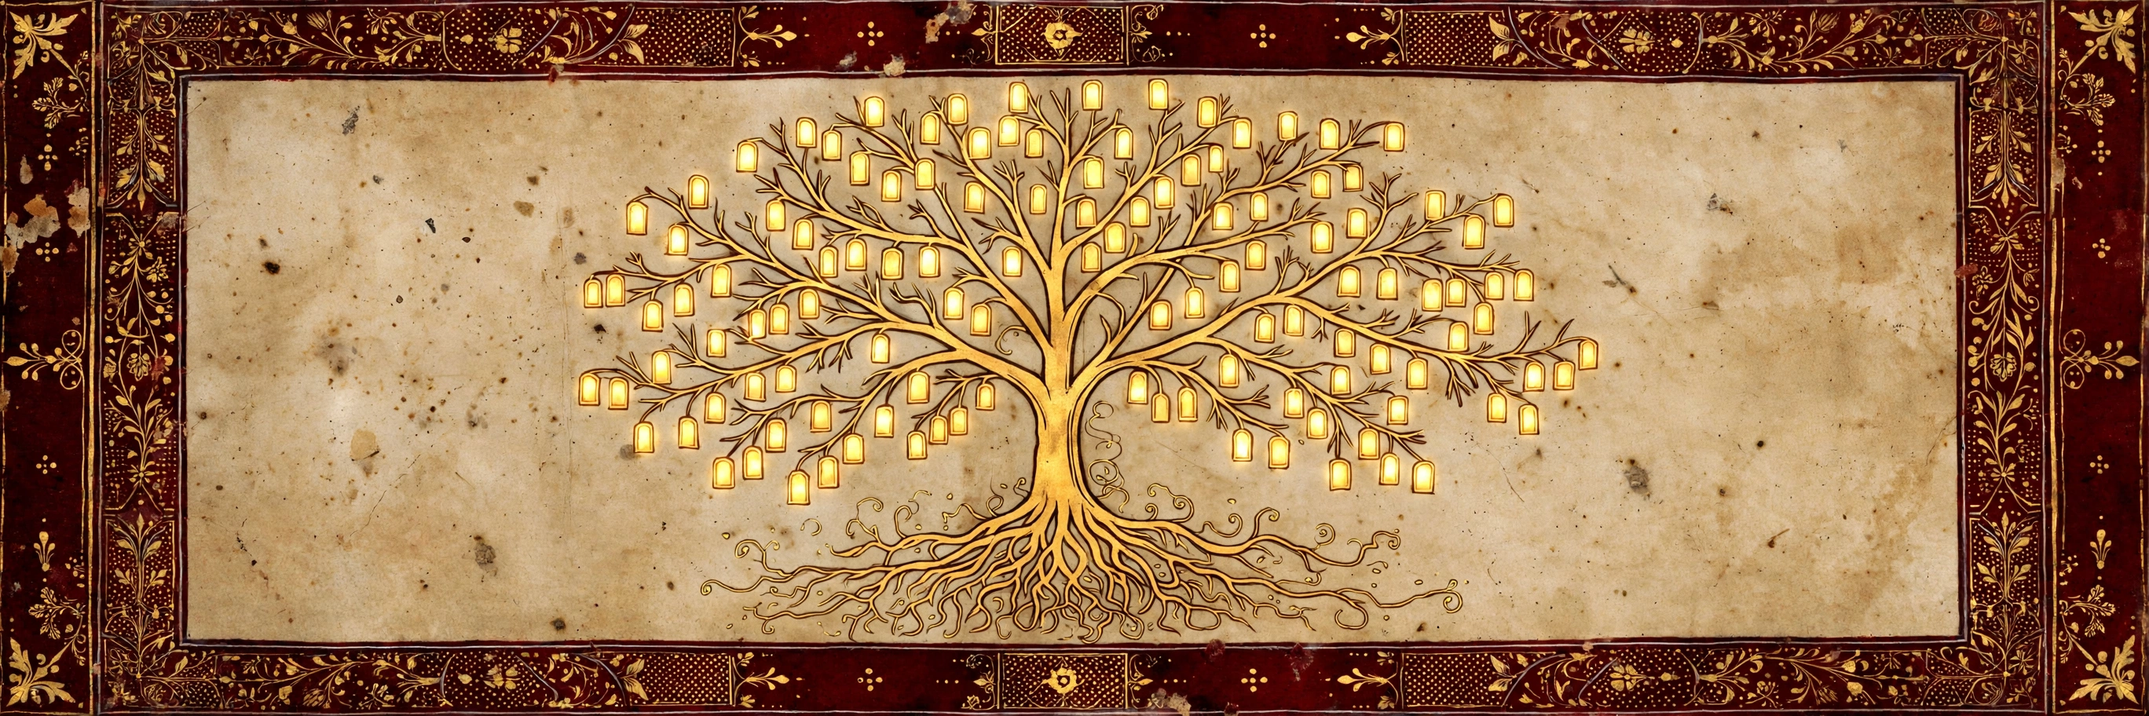
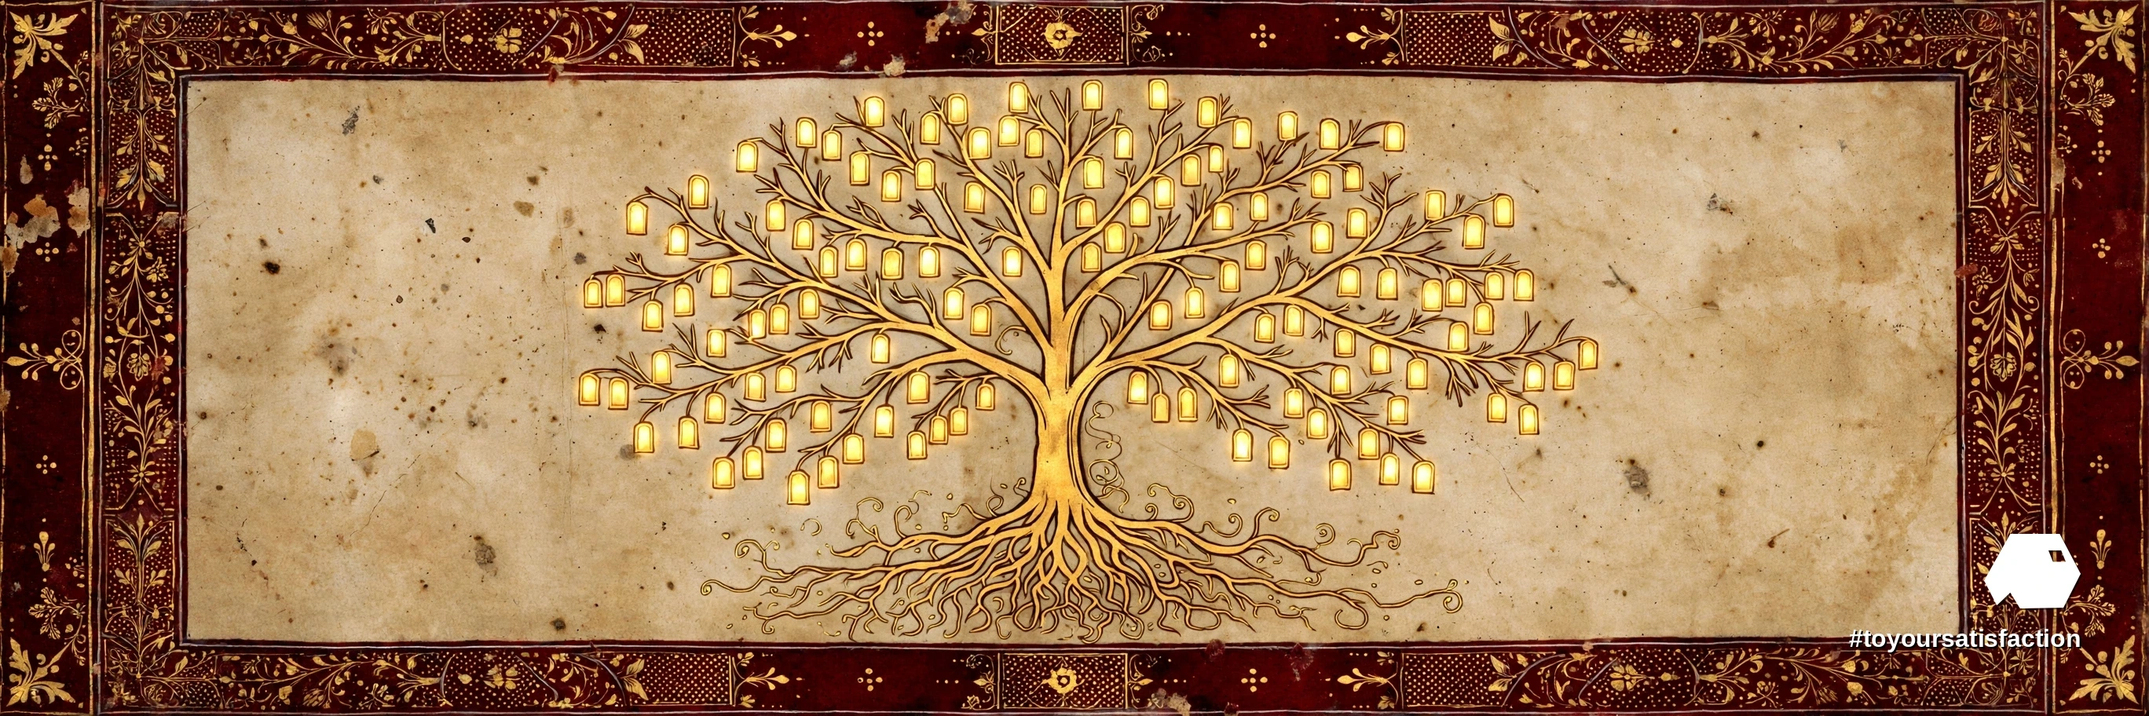
Magazine edition — batch 2

Changed region(s): [[0.8699, 0.7368, 0.9942, 0.9211]]

diff --git a/articles/one-ontology-many-models/index.html b/articles/one-ontology-many-models/index.html
@@ -13,34 +13,74 @@
 <meta property="og:image" content="https://oviainc.github.io/ai-services/articles/one-ontology-many-models/ovia-inc-one-ontology-many-models-hero.webp">
 <meta name="twitter:card" content="summary_large_image">
 <style>
-  :root{--bg:#0A0E14;--accent:#2E9BD6;--text:#FFFFFF;--muted:#B9C4CE;}
+  :root{--bg:#0A0E14;--panel:#101823;--text:#FFFFFF;--muted:#B9C4CE;--line:#22303E;--accent:#CE7A87;}
   *{box-sizing:border-box;margin:0;padding:0;}
-  body{background:var(--bg);color:var(--text);font-family:-apple-system,BlinkMacSystemFont,"Segoe UI",Roboto,Helvetica,Arial,sans-serif;line-height:1.65;}
-  main{max-width:760px;margin:0 auto;padding:32px 20px 48px;}
-  .langbar{display:flex;justify-content:flex-end;align-items:center;gap:10px;margin-bottom:18px;}
-  .langbar label{color:var(--muted);font-size:.85rem;letter-spacing:.08em;text-transform:uppercase;}
-  .langbar select{background:#101823;color:var(--text);border:1px solid #1E2A36;border-radius:8px;padding:6px 10px;font-size:.95rem;max-width:60vw;}
-  .kicker{color:var(--accent);font-size:.85rem;letter-spacing:.18em;text-transform:uppercase;margin-bottom:14px;}
-  h1{font-size:2rem;line-height:1.25;margin-bottom:20px;font-weight:700;}
-  h2{font-size:1.3rem;line-height:1.35;margin:28px 0 12px;font-weight:700;color:var(--accent);}
-  img.hero{width:100%;height:auto;border-radius:10px;display:block;margin-bottom:28px;}
-  p{margin-bottom:16px;color:var(--text);}
-  p.tags{color:var(--accent);font-size:.95rem;}
-  ul.refs{list-style:none;margin-bottom:16px;}
-  ul.refs li{margin-bottom:10px;color:var(--muted);font-size:.95rem;}
+  body{background:var(--bg);color:var(--text);font-family:Georgia,'Times New Roman',Times,serif;line-height:1.6;}
+  a{color:var(--accent);}
+  .sans{font-family:-apple-system,BlinkMacSystemFont,"Segoe UI",Roboto,Helvetica,Arial,sans-serif;}
+  /* masthead zone over the article background image */
+  .mastzone{position:relative;overflow:hidden;border-bottom:1px solid var(--line);}
+  .mast-bg{position:absolute;inset:0;background-size:cover;background-position:center;opacity:.22;}
+  .mast-shade{position:absolute;inset:0;background:linear-gradient(180deg,rgba(10,14,20,.52),rgba(10,14,20,.94));}
+  .mast-inner{position:relative;max-width:1180px;margin:0 auto;padding:24px 22px 42px;}
+  .masthead{display:flex;align-items:center;gap:16px;flex-wrap:wrap;}
+  .masthead a.logo{display:block;line-height:0;}
+  .masthead img.logo{height:46px;width:auto;display:block;}
+  .wordmark{font-family:-apple-system,BlinkMacSystemFont,"Segoe UI",Roboto,Helvetica,Arial,sans-serif;letter-spacing:.34em;font-size:13px;text-transform:uppercase;color:var(--text);}
+  .langbar{display:flex;align-items:center;gap:10px;margin-left:auto;}
+  .langbar label{color:var(--muted);font-size:.8rem;letter-spacing:.08em;text-transform:uppercase;font-family:-apple-system,BlinkMacSystemFont,"Segoe UI",Roboto,Helvetica,Arial,sans-serif;}
+  .langbar select{background:#101823;color:var(--text);border:1px solid var(--line);border-radius:8px;padding:6px 10px;font-size:.95rem;max-width:52vw;}
+  .kicker{color:var(--accent);font-size:.85rem;letter-spacing:.3em;text-transform:uppercase;margin:44px 0 16px;font-family:-apple-system,BlinkMacSystemFont,"Segoe UI",Roboto,Helvetica,Arial,sans-serif;}
+  h1.display{font-family:"Arial Narrow Bold","Franklin Gothic Medium",Impact,Haettenschweiler,"Helvetica Neue Condensed Bold",sans-serif;text-transform:uppercase;font-weight:700;font-size:clamp(2.5rem,6.4vw,4.7rem);line-height:.99;letter-spacing:.004em;max-width:1020px;}
+  .standfirst{font-size:clamp(1.12rem,2.3vw,1.42rem);font-style:italic;color:var(--muted);max-width:780px;line-height:1.5;margin-top:18px;}
+  .byline{font-family:-apple-system,BlinkMacSystemFont,"Segoe UI",Roboto,Helvetica,Arial,sans-serif;font-size:.74rem;letter-spacing:.2em;text-transform:uppercase;color:var(--muted);border-top:1px solid var(--line);margin-top:24px;padding-top:14px;}
+  /* hero */
+  .hero-zone{max-width:1180px;margin:34px auto 0;padding:0 22px;}
+  figure.hero img{width:100%;height:auto;display:block;border-radius:2px;}
+  figcaption{font-family:-apple-system,BlinkMacSystemFont,"Segoe UI",Roboto,Helvetica,Arial,sans-serif;font-size:.78rem;color:var(--muted);padding-top:8px;letter-spacing:.03em;}
+  /* body columns */
+  main{max-width:1180px;margin:0 auto;padding:6px 22px 30px;}
+  .cols{margin-top:30px;font-size:1.16rem;line-height:1.75;}
+  @media (min-width:1020px){.cols{column-count:2;column-gap:54px;}}
+  .cols p{margin:0 0 20px;}
+  .cols p.first::first-letter{font-family:"Arial Narrow Bold","Franklin Gothic Medium",Impact,sans-serif;font-size:5.4rem;line-height:.78;float:left;padding:.55rem .9rem 0 0;color:var(--accent);font-weight:700;}
+  h2.sec{font-family:-apple-system,BlinkMacSystemFont,"Segoe UI",Roboto,Helvetica,Arial,sans-serif;font-size:.88rem;letter-spacing:.26em;text-transform:uppercase;color:var(--accent);margin:36px 0 14px;border-top:2px solid var(--accent);padding-top:14px;break-after:avoid;}
+  h2.sec:first-child{margin-top:0;}
+  blockquote.pull{column-span:all;font-size:clamp(1.55rem,3.6vw,2.35rem);line-height:1.3;font-style:italic;text-align:center;color:var(--accent);margin:42px 0;padding:4px 12px;}
+  figure.body{margin:4px 0 22px;break-inside:avoid;}
+  figure.wide{column-span:all;margin:30px 0 34px;}
+  figure.body img,figure.wide img{width:100%;height:auto;display:block;border-radius:2px;}
+  .keybox{break-inside:avoid;background:var(--panel);border:1px solid var(--line);border-top:3px solid var(--accent);padding:18px 20px 10px;margin:0 0 24px;font-family:-apple-system,BlinkMacSystemFont,"Segoe UI",Roboto,Helvetica,Arial,sans-serif;}
+  .keybox h3{font-size:.78rem;letter-spacing:.24em;text-transform:uppercase;color:var(--accent);margin-bottom:10px;}
+  .keybox li{margin:0 0 9px 18px;font-size:.95rem;line-height:1.5;}
+  /* references + tags + footer */
+  .refs-sec{margin-top:44px;border-top:1px solid var(--line);padding-top:24px;}
+  .refs-sec h2{font-family:-apple-system,BlinkMacSystemFont,"Segoe UI",Roboto,Helvetica,Arial,sans-serif;font-size:.88rem;letter-spacing:.26em;text-transform:uppercase;color:var(--accent);margin-bottom:14px;}
+  ul.refs{list-style:none;}
+  ul.refs li{margin-bottom:10px;color:var(--muted);font-size:.95rem;font-family:-apple-system,BlinkMacSystemFont,"Segoe UI",Roboto,Helvetica,Arial,sans-serif;}
   ul.refs a{color:var(--accent);text-decoration:none;word-break:break-all;}
   ul.refs a:hover{text-decoration:underline;}
-  footer{border-top:1px solid #1E2A36;margin-top:36px;padding-top:20px;font-size:.95rem;color:var(--muted);}
+  p.tags{color:var(--accent);font-size:.95rem;margin-top:26px;font-family:-apple-system,BlinkMacSystemFont,"Segoe UI",Roboto,Helvetica,Arial,sans-serif;}
+  footer{border-top:1px solid var(--line);margin-top:38px;padding:22px 0 10px;font-size:.95rem;color:var(--muted);font-family:-apple-system,BlinkMacSystemFont,"Segoe UI",Roboto,Helvetica,Arial,sans-serif;}
+  footer .frow{display:flex;align-items:center;gap:14px;flex-wrap:wrap;}
+  footer img.flogo{height:30px;width:auto;display:block;}
   footer a{color:var(--accent);text-decoration:none;}
   footer a:hover{text-decoration:underline;}
-  @media (max-width:600px){h1{font-size:1.55rem;}main{padding:22px 16px 36px;}}
+  footer .ftag{color:var(--text);letter-spacing:.06em;}
+  @media (max-width:640px){.mast-inner{padding:18px 16px 30px;}main,.hero-zone{padding-left:16px;padding-right:16px;}h1.display{font-size:2.35rem;}.cols{font-size:1.08rem;}}
 </style>
 </head>
 <body>
-<main>
-<div class="langbar">
-          <label for="langPick" data-tr>Language</label>
-          <select id="langPick" aria-label="Choose your language">
+<header class="mastzone">
+  <div class="mast-bg" style="background-image:url('ovia-inc-one-ontology-many-models-background.webp')"></div>
+  <div class="mast-shade"></div>
+  <div class="mast-inner">
+    <div class="masthead">
+      <a class="logo" href="../../" aria-label="Ovia Inc — home"><img class="logo" src="../../assets/ovia-inc-logo-white.webp" alt="Ovia Inc — logo"></a>
+      <span class="wordmark">Ovia Inc — Magazine</span>
+      <div class="langbar">
+        <label for="langPick" data-tr>Language</label>
+        <select id="langPick" aria-label="Choose your language">
             <option value="en">English</option>
             <option value="fr">Français</option>
             <option value="es">Español</option>
@@ -118,29 +158,62 @@
             <option value="lo">ລາວ</option>
             <option value="mn">Монгол</option>
           </select>
-        </div>
-  <p class="kicker" data-tr>Ovia Inc — Articles</p>
-  <h1 data-tr>One Vocabulary, Every Model: Governing Meaning Across the Semantic Estate</h1>
-  <img class="hero" src="ovia-inc-one-ontology-many-models-hero.webp" alt="Ovia Inc — An illuminated-manuscript golden tree on aged parchment inside a burgundy and gold border, its branches carrying many small glowing tablets as leaves">
-  <h2 data-tr>The fragmentation problem</h2>
-  <p data-tr>Every growing data estate develops the same quiet disease. Finance models revenue one way; the sales dashboard models revenue another; a third definition lives inside the board pack, reconciled by hand each quarter. Each semantic model is internally consistent, and the company still argues about the numbers — because the argument was never about arithmetic. Meaning drifts wherever models multiply without a shared vocabulary above them, and the drift stays invisible until two certified answers disagree in the same meeting. Agents inherit the disease at machine speed: an agent reasoning across models that define the same word differently will produce fluent, confident, contradictory work.</p>
-  <h2 data-tr>One ontology, many models</h2>
-  <p data-tr>The architectural answer emerging in the Datus and Dosi October work is a separation of concerns. Ontology Mapping, split into the Apache Ossie standard, divides the world into three documents — the ontology, the semantic model, and the mapping between them — so that one ontology can span many semantic models. The vocabulary of the business (customer, order, account, and the relationships among them) lives once, governed once, and each underlying model declares how local fields and tables express those shared concepts. Models keep their local structure; meaning stops being local. New models join the estate by writing a mapping, not by renegotiating the language.</p>
-  <h2 data-tr>Governance is a versioning problem</h2>
-  <p data-tr>Treating vocabulary as a governed artefact changes the daily work of data leadership. A definition change becomes a versioned event — proposed, reviewed, released — rather than an edit inside one team's file. Derived concepts, such as the rule that makes a customer a Premier Customer, carry versions of their own, so historical reports can be read against the rule that was in force when the numbers were produced. Disputes move up a level, from whose SQL is right to what the business means — a shorter, more honest argument, held once, in the open, with the decision recorded where every model can inherit the answer.</p>
-  <h2 data-tr>What agents inherit</h2>
-  <p data-tr>Agents raise the stakes on all of this, because agents consume meaning literally and at scale. An ontology spanning the estate gives an agent a bounded business world to reason in: concepts that resolve consistently across models, relationships that can be traversed safely, rules that execute the same way in every tool. The OntologyAnalyst pattern — a specialised subagent working the concepts and mappings directly — shows the consumption model forming already. Context engineering, as practised at Ovia since December 2022, treats that vocabulary as core context: the shared language is not documentation about the system; the shared language is part of the system.</p>
-  <h2 data-tr>What to watch</h2>
-  <p data-tr>Watch whether the three-document split — ontology, model, mapping — becomes the standard shape other engines adopt, whether mapping maintenance proves cheaper than definition drift (the bet the architecture makes), and whether governance ceremonies stay light enough that teams actually hold them. The estates that win the agent era will not be the ones with the most models. The winners will be the estates where every model, dashboard and agent means the same thing by the same words — and can prove the lineage of that meaning on demand.</p>
-  <p data-tr>The cost side deserves honesty as well. A governed vocabulary is not free: mappings must be written, changes reviewed, and someone must own the language with authority to settle disputes. The architecture's bet is that this visible, bounded cost replaces an invisible, unbounded one — the reconciliation meetings, the duplicated definitions, the agent errors traced back to two models meaning different things by the same word. Estates already pay for meaning; the ontology simply moves the payment onto the books, where leadership can see the line and judge the return.</p>
-  <h2 data-tr>References</h2>
-  <ul class="refs">
-    <li><span data-tr>Harrison Zhao (Datus) — “Datus October Update: Teaching the Semantic Layer the Business”, Medium, October 31, 2026:</span> <a href="https://medium.com/@linux.hust/datus-october-update-teaching-the-semantic-layer-the-business-datus-blog-7f5401c6abca">https://medium.com/@linux.hust/datus-october-update-teaching-the-semantic-layer-the-business-datus-blog-7f5401c6abca</a></li>
-    <li><span data-tr>Datus — “From Semantic Layer to Ontology: Architecture for AI Agents”, Datus blog:</span> <a href="https://datus.ai/blog/from-semantic-layer-to-ontology/">https://datus.ai/blog/from-semantic-layer-to-ontology/</a></li>
-  </ul>
+      </div>
+    </div>
+    <p class="kicker" data-tr>Ovia Inc — Context Engineering · Data Governance</p>
+    <h1 class="display" data-tr>One Vocabulary, Every Model: Governing Meaning Across the Semantic Estate</h1>
+    <p class="standfirst" data-tr>Meaning drifts wherever models multiply without a shared vocabulary above them; one governed ontology, mapped onto many models, settles the argument once.</p>
+    <p class="byline" data-tr>Ovia Inc · Studio and Lab · 6 min read</p>
+  </div>
+</header>
+<div class="hero-zone">
+  <figure class="hero">
+    <img src="ovia-inc-one-ontology-many-models-hero.webp" alt="Ovia Inc — An illuminated-manuscript golden tree on aged parchment inside a burgundy and gold border, its branches carrying many small glowing tablets as leaves">
+    <figcaption data-tr>A golden tree on parchment, branches carrying glowing tablets. Image: Ovia Inc</figcaption>
+  </figure>
+</div>
+<main>
+  <div class="cols">
+<p class="first" data-tr>Every growing data estate develops the same quiet disease, and the disease rarely announces itself as a data problem. Finance models revenue one way, the sales dashboard models revenue another way, and a third definition survives inside the board pack.</p>
+<p data-tr>Each model can pass every local test and the company can still argue about the numbers in the same meeting. The argument was never mainly about arithmetic. Meaning drifts wherever models multiply without a shared vocabulary above them, and the drift stays invisible until two certified answers disagree in public.</p>
+<p data-tr>The ontology direction in the Datus and Dosi October work points the other way. One governed vocabulary, mapped onto many models and versioned like code, gives teams a place to settle meaning once and let every dashboard, model and agent inherit the answer.</p>
+<aside class="keybox"><h3 data-tr>Key points</h3><ul><li data-tr>Meaning drifts when every team and tool keeps a local definition of the same business word.</li><li data-tr>Ontology Mapping split into the Apache Ossie standard separates the ontology, the semantic model and the mapping between them.</li><li data-tr>A definition change becomes a versioned event, proposed, reviewed and released, rather than a quiet edit in one file.</li><li data-tr>Agents consume meaning literally and at scale, so a shared vocabulary becomes part of the system rather than documentation about the system.</li></ul></aside>
+<h2 class="sec" data-tr>01 · The fragmentation problem</h2>
+<p data-tr>Every growing data estate develops the same quiet disease. Finance models revenue one way; the sales dashboard models revenue another; a third definition lives inside the board pack, reconciled by hand each quarter. Each semantic model is internally consistent, and the company still argues about the numbers — because the argument was never about arithmetic. Meaning drifts wherever models multiply without a shared vocabulary above them, and the drift stays invisible until two certified answers disagree in the same meeting. Agents inherit the disease at machine speed: an agent reasoning across models that define the same word differently will produce fluent, confident, contradictory work.</p>
+<p data-tr>The cost of that drift is easy to underestimate because the cost arrives as ordinary friction. A meeting spends its first half reconciling totals instead of deciding anything. An analyst maintains a private translation between two dashboards. A careful answer carries a footnote explaining which revenue was meant. None of those moments looks like a system failure, yet together those moments tax every decision the estate was built to support.</p>
+<h2 class="sec" data-tr>02 · One ontology, many models</h2>
+<p data-tr>The architectural answer emerging in the Datus and Dosi October work is a separation of concerns. Ontology Mapping, split into the Apache Ossie standard, divides the world into three documents — the ontology, the semantic model, and the mapping between them — so that one ontology can span many semantic models. The vocabulary of the business (customer, order, account, and the relationships among them) lives once, governed once, and each underlying model declares how local fields and tables express those shared concepts. Models keep their local structure; meaning stops being local. New models join the estate by writing a mapping, not by renegotiating the language.</p>
+<p data-tr>The three-document split also clarifies ownership. The ontology holds the language leadership agrees to govern. A semantic model holds a local structure built for a platform, a team or a workload. The mapping holds the honest translation between the two, where compromises and gaps can be seen rather than hidden inside a query. When a local model changes shape, the mapping absorbs the change. When the business changes meaning, the ontology records the change where every mapping can respond.</p>
+<blockquote class="pull" data-tr>The shared language is not documentation about the system; the shared language is part of the system.</blockquote>
+<figure class="body"><img src="ovia-inc-one-ontology-many-models-body-1.webp" alt="Ovia Inc — A golden illuminated tree on parchment spreading into many panels inside a burgundy and gold border"><figcaption data-tr>One golden tree, many panels, inside a burgundy and gold border. Image: Ovia Inc</figcaption></figure>
+<h2 class="sec" data-tr>03 · Governance is a versioning problem</h2>
+<p data-tr>Treating vocabulary as a governed artefact changes the daily work of data leadership. A definition change becomes a versioned event — proposed, reviewed, released — rather than an edit inside one team's file. Derived concepts, such as the rule that makes a customer a Premier Customer, carry versions of their own, so historical reports can be read against the rule that was in force when the numbers were produced. Disputes move up a level, from whose SQL is right to what the business means — a shorter, more honest argument, held once, in the open, with the decision recorded where every model can inherit the answer.</p>
+<p data-tr>Good governance here stays deliberately light. A proposed change needs a reason, a reviewer with authority over the concept, and a record that downstream owners can find. Heavy ceremony would push teams back toward private definitions, defeating the purpose. Light, visible versioning does the opposite: changing the shared language becomes normal, auditable work, and keeping a private dialect becomes the option that needs explaining.</p>
+<h2 class="sec" data-tr>04 · What agents inherit</h2>
+<p data-tr>Agents raise the stakes on all of this, because agents consume meaning literally and at scale. An ontology spanning the estate gives an agent a bounded business world to reason in: concepts that resolve consistently across models, relationships that can be traversed safely, rules that execute the same way in every tool. The OntologyAnalyst pattern — a specialised subagent working the concepts and mappings directly — shows the consumption model forming already. Context engineering, as practised at Ovia since December 2022, treats that vocabulary as core context: the shared language is not documentation about the system; the shared language is part of the system.</p>
+<figure class="wide"><img src="ovia-inc-one-ontology-many-models-body-2.webp" alt="Ovia Inc — Three parchment scrolls on burgundy cloth joined by gold threads into one central gold seal"><figcaption data-tr>Three parchments on burgundy cloth, gold threads meeting at one seal. Image: Ovia Inc</figcaption></figure>
+<p data-tr>Bounded worlds matter for safety as much as for accuracy. An agent that can traverse named relationships inside a governed vocabulary has a clearer edge to stop at than an agent improvising joins across raw tables. Permissions, review and audit all become easier to reason about when the concepts an agent used are the same concepts a person can inspect. The vocabulary does not make an agent wise, but a governed vocabulary makes agent work legible.</p>
+<h2 class="sec" data-tr>05 · What to watch</h2>
+<p data-tr>Watch whether the three-document split — ontology, model, mapping — becomes the standard shape other engines adopt, whether mapping maintenance proves cheaper than definition drift (the bet the architecture makes), and whether governance ceremonies stay light enough that teams actually hold them. The estates that win the agent era will not be the ones with the most models. The winners will be the estates where every model, dashboard and agent means the same thing by the same words — and can prove the lineage of that meaning on demand.</p>
+<p data-tr>The cost side deserves honesty as well. A governed vocabulary is not free: mappings must be written, changes reviewed, and someone must own the language with authority to settle disputes. The architecture's bet is that this visible, bounded cost replaces an invisible, unbounded one — the reconciliation meetings, the duplicated definitions, the agent errors traced back to two models meaning different things by the same word. Estates already pay for meaning; the ontology simply moves the payment onto the books, where leadership can see the line and judge the return.</p>
+<p data-tr>A sensible starting point stays small. Pick the words that cause the most expensive arguments, govern those words first, and let the practice earn the right to expand.</p>
+
+  </div>
+  <div class="refs-sec">
+    <h2 data-tr>References</h2>
+    <ul class="refs">
+<li><span data-tr>Harrison Zhao (Datus) — “Datus October Update: Teaching the Semantic Layer the Business”, Medium, October 31, 2026:</span> <a href="https://medium.com/@linux.hust/datus-october-update-teaching-the-semantic-layer-the-business-datus-blog-7f5401c6abca">https://medium.com/@linux.hust/datus-october-update-teaching-the-semantic-layer-the-business-datus-blog-7f5401c6abca</a></li>
+<li><span data-tr>Datus — “From Semantic Layer to Ontology: Architecture for AI Agents”, Datus blog:</span> <a href="https://datus.ai/blog/from-semantic-layer-to-ontology/">https://datus.ai/blog/from-semantic-layer-to-ontology/</a></li>
+
+    </ul>
+  </div>
   <p class="tags">#ContextEngineering #BusinessIntelligence #DataGovernance #toyoursatisfaction</p>
   <footer>
-    <p><a href="../../">Ovia Inc</a> · Source on GitHub: <a href="https://github.com/Oviainc/ai-services">github.com/Oviainc/ai-services</a></p>
+    <div class="frow">
+      <a href="../../" aria-label="Ovia Inc — home"><img class="flogo" src="../../assets/ovia-inc-logo-white.webp" alt="Ovia Inc — logo"></a>
+      <span><a href="../../">Ovia Inc</a> · <span data-tr>Source on GitHub:</span> <a href="https://github.com/Oviainc/ai-services">github.com/Oviainc/ai-services</a></span>
+      <span class="ftag">#toyoursatisfaction</span>
+    </div>
   </footer>
 </main>
 <script>
